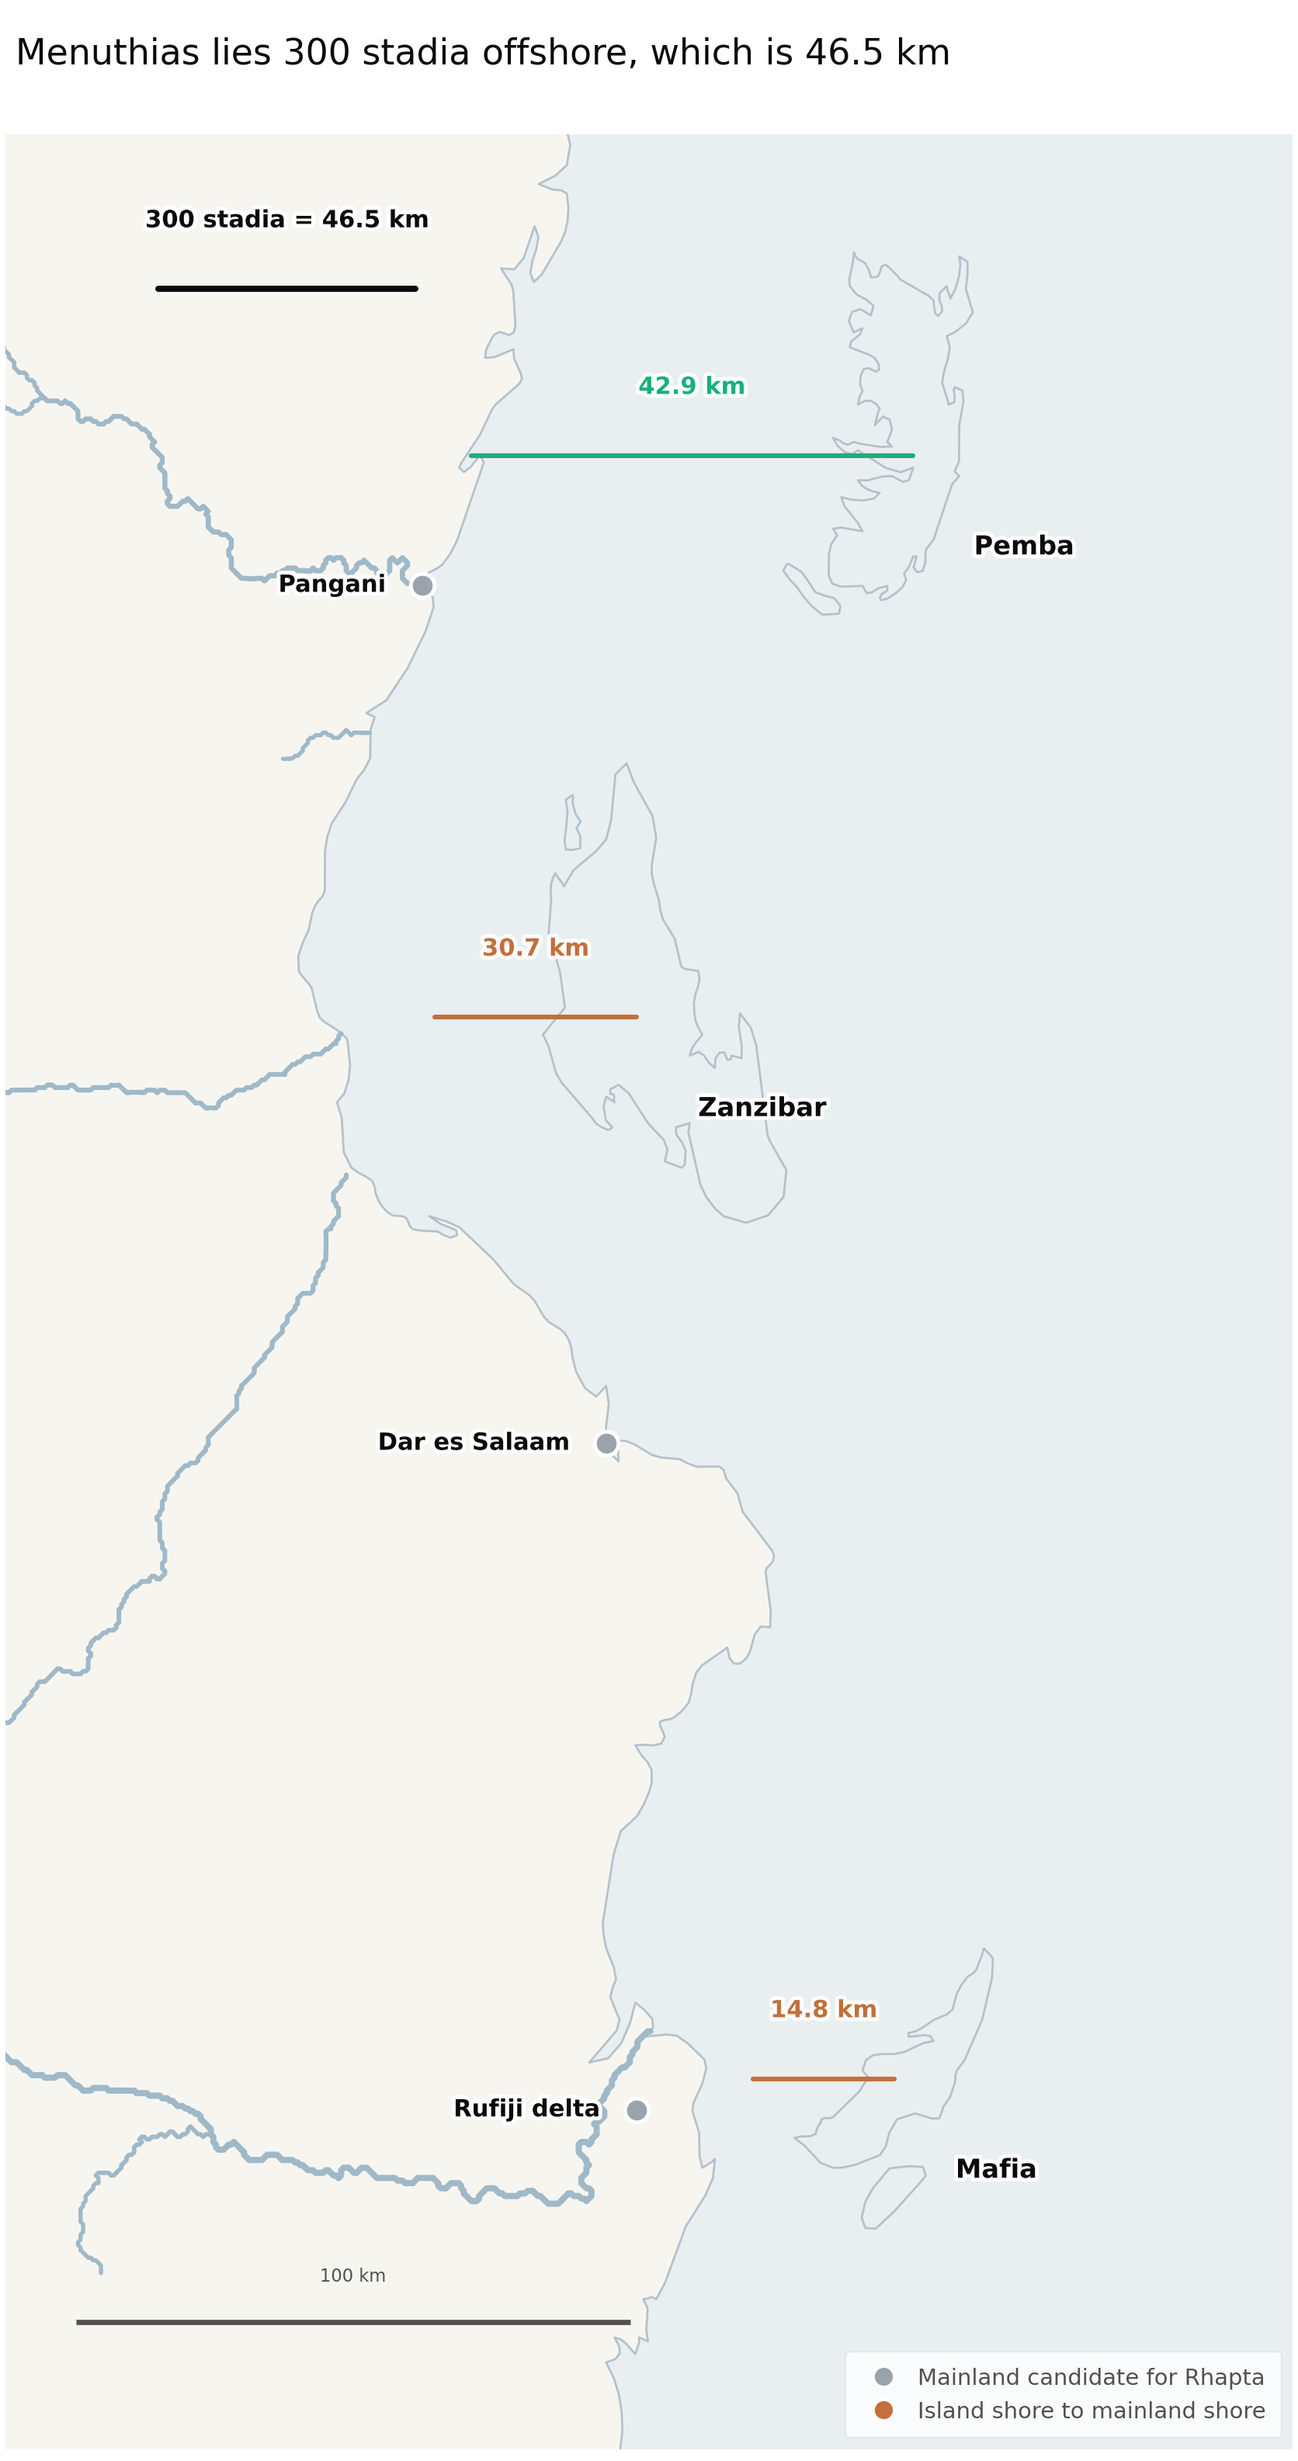
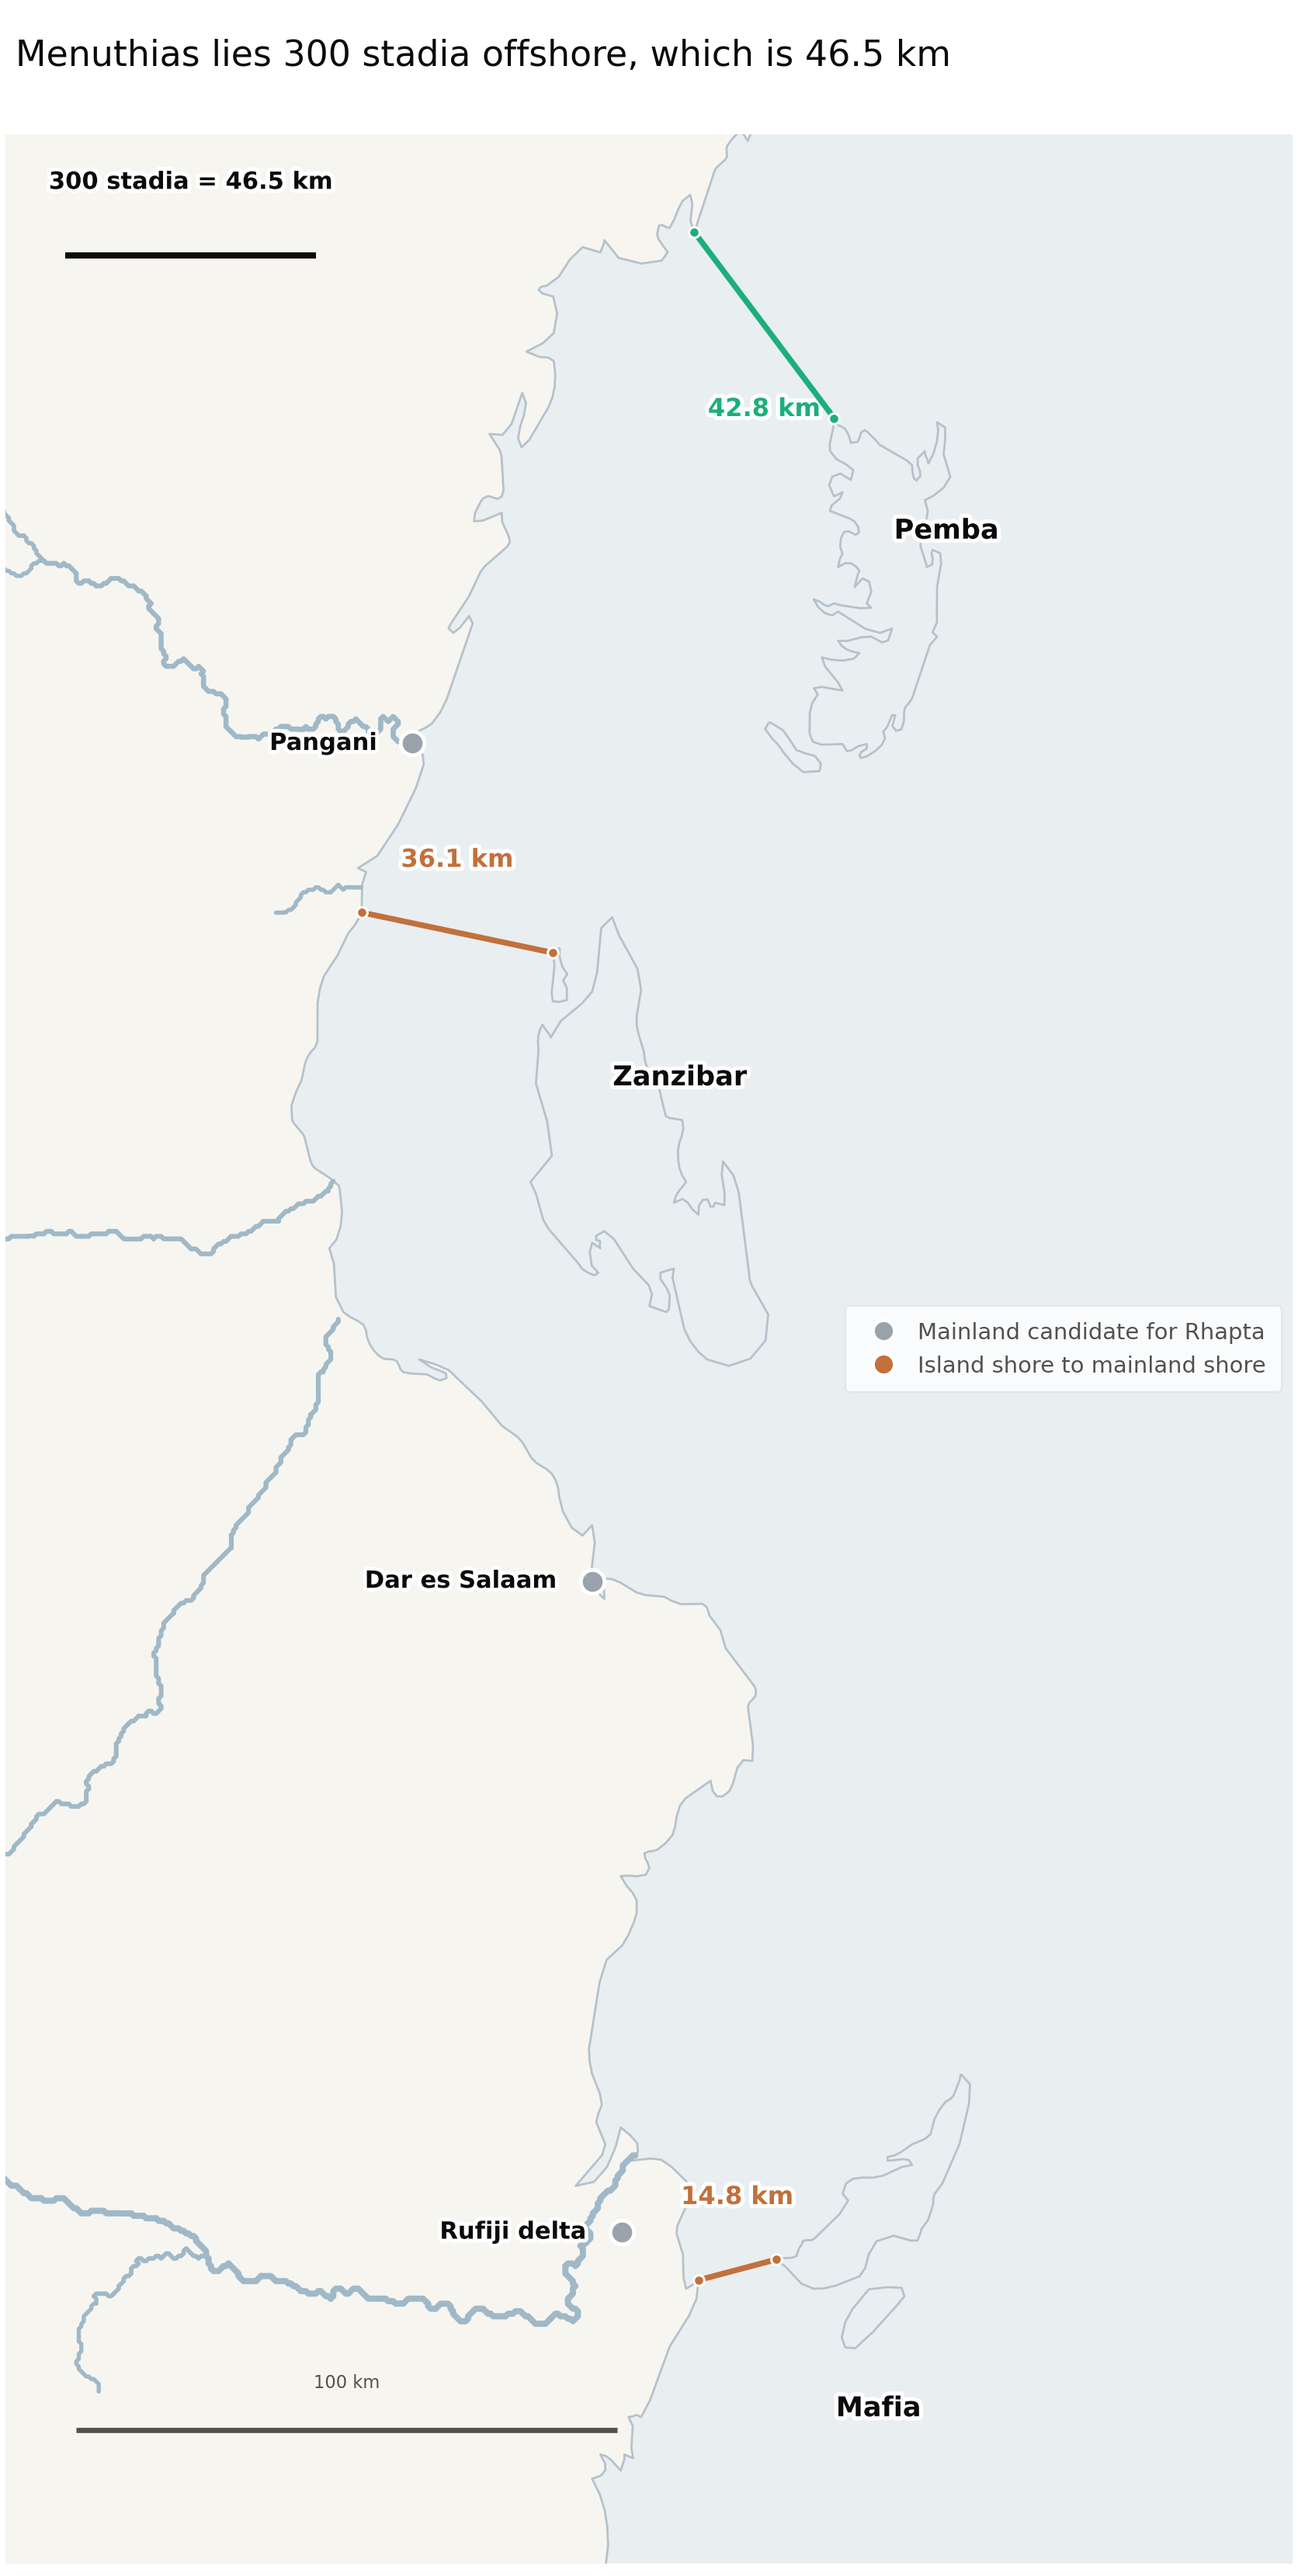
Measure the Menuthias distances from the coastline instead of by eye
The three lines on the Rhapta map were drawn between hand-picked
coordinates and did not meet either shore. They are now the shortest
segment between each island's coastline ring and the mainland ring in
Natural Earth 10m, computed and stored in
data/processed/menuthias_distances.json, with both endpoints marked.

This corrects Zanzibar from 30.7 km to 36.1 km, a figure we had been
quoting in the findings and the Rhapta record. Pemba is 42.8 km and Mafia
14.8 km. Pemba remains the closest to the 46.5 km implied by 300 stadia,
but by a smaller margin than we had claimed.

diff --git a/src/make_slide_maps.py b/src/make_slide_maps.py
@@ -244,39 +244,52 @@ def nelkynda_bakare():
 
 # ------------------------------------------------------------------- Rhapta
 def rhapta():
-    """300 stadia offshore is 46.5 km. Measured island shore to mainland
-    shore, Pemba fits and the usual candidates do not."""
-    bbox = (38.30, 40.40, -8.45, -4.70)
+    """300 stadia offshore is 46.5 km. The three candidate islands are measured
+    shore to shore against the Natural Earth coastline, not by eye, and the
+    endpoints below come from data/processed/menuthias_distances.json."""
+    import json
+    D = json.loads((ROOT / "data/processed/menuthias_distances.json").read_text())
+    bbox = (38.30, 40.45, -8.45, -4.42)
     fig, ax = frame(bbox, 7.6,
                     "Menuthias lies 300 stadia offshore, which is 46.5 km",
                     min_flow=30)
-    ISL = [("Pemba", 39.78, -5.22, 42.9, 39.06, -5.22, FOUND),
-           ("Zanzibar", 39.33, -6.13, 30.7, 39.00, -6.13, TESTED),
-           ("Mafia", 39.75, -7.85, 14.8, 39.52, -7.85, TESTED)]
-    for name, ilon, ilat, km, mlon, mlat, col in ISL:
-        ax.plot([mlon, ilon], [mlat, ilat], color=col, lw=2.0, zorder=6,
-                solid_capstyle="round")
-        ax.text((mlon + ilon) / 2, ilat + 0.10, f"{km} km", fontsize=10,
-                color=col, ha="center", fontweight="bold",
-                path_effects=[pe.withStroke(linewidth=3.2, foreground="white")])
-        ax.text(ilon + 0.10, ilat - 0.16, name, fontsize=11, color=INK,
+    TARGET = 46.5
+    order = ["Pemba", "Zanzibar", "Mafia"]
+    LBL = {"Pemba": (0.10, -0.20), "Zanzibar": (0.10, -0.22), "Mafia": (0.10, -0.26)}
+    for name in order:
+        d = D[name]
+        (ilon, ilat), (mlon, mlat) = d["island"], d["mainland"]
+        near = abs(d["km"] - TARGET) < 6
+        col = FOUND if near else TESTED
+        ax.plot([mlon, ilon], [mlat, ilat], color=col, lw=2.4, zorder=7,
+                solid_capstyle="butt")
+        for x, y in ((mlon, mlat), (ilon, ilat)):
+            ax.plot([x], [y], marker="o", ms=4.5, mfc=col, mec="white", mew=1.0,
+                    zorder=8, ls="none")
+        mx, my = (mlon + ilon) / 2, (mlat + ilat) / 2
+        off = -0.14 if name == "Pemba" else 0.12
+        ax.text(mx, my + off, f"{d['km']:.1f} km", fontsize=10.5, color=col,
+                ha="center", va="center", fontweight="bold",
+                path_effects=[pe.withStroke(linewidth=3.4, foreground="white")])
+        dx, dy = LBL[name]
+        ax.text(ilon + dx, ilat + dy, name, fontsize=11.5, color=INK,
                 fontweight="bold",
-                path_effects=[pe.withStroke(linewidth=3.2, foreground="white")])
+                path_effects=[pe.withStroke(linewidth=3.4, foreground="white")])
+    # the target, drawn to the same scale so the three can be read against it
+    ref_lat, ref_lon = -4.62, 38.40
+    dlon = TARGET / (111.32 * math.cos(math.radians(ref_lat)))
+    ax.plot([ref_lon, ref_lon + dlon], [ref_lat, ref_lat], color=INK, lw=2.6,
+            zorder=7, solid_capstyle="butt")
+    ax.text(ref_lon + dlon / 2, ref_lat + 0.11, "300 stadia = 46.5 km",
+            fontsize=10, color=INK, ha="center", fontweight="bold",
+            path_effects=[pe.withStroke(linewidth=3.4, foreground="white")])
     for k, lbl, dx, ha in [("pangani", "Pangani", -0.06, "right"),
                            ("dar_es_salaam", "Dar es Salaam", -0.06, "right"),
                            ("rufiji", "Rufiji delta", -0.06, "right")]:
         lo, la = xy(k)
         mark(ax, lo, la, lbl, NONE, dx, 0.0, ha, size=10, weight="bold")
-    # the target, drawn to the same scale so the three can be read against it
-    ref_lat, ref_lon = -4.95, 38.55
-    dlon = 46.5 / (111.32 * math.cos(math.radians(ref_lat)))
-    ax.plot([ref_lon, ref_lon + dlon], [ref_lat, ref_lat], color=INK, lw=2.6,
-            zorder=7, solid_capstyle="round")
-    ax.text(ref_lon + dlon / 2, ref_lat + 0.10, "300 stadia = 46.5 km", fontsize=10,
-            color=INK, ha="center", fontweight="bold",
-            path_effects=[pe.withStroke(linewidth=3.4, foreground="white")])
     legend(ax, [("Mainland candidate for Rhapta", NONE),
-                ("Island shore to mainland shore", TESTED)], loc="lower right")
+                ("Island shore to mainland shore", TESTED)], loc="center right")
     bm.scalebar(ax, bbox)
     fig.savefig(OUT / "14_rhapta.png", dpi=220, facecolor="white")
     print("wrote 14_rhapta.png")

diff --git a/src/build_city_record.py b/src/build_city_record.py
@@ -223,7 +223,7 @@ Datoo's bracket from Pangani to the Rufiji but disputes the point within it.
 
 The Periplus places Rhapta two days' sail beyond Menuthias, an island 300 stadia
 offshore. At a 155 m stadion that is 46.5 km, and measured from island shore to
-mainland shore Pemba fits at 42.9 km against Zanzibar at 30.7 and Mafia at 14.8.
+mainland shore Pemba fits at 42.8 km against Zanzibar at 36.1 and Mafia at 14.8.
 If Menuthias is Pemba, two days south lands near Pangani or a little below it,
 favouring the northern end of the bracket.
 

diff --git a/docs/FINDINGS.md b/docs/FINDINGS.md
@@ -683,8 +683,8 @@ Chittick and later Chami for the Rufiji delta, with Chami additionally reporting
 submerged structures off Mafia Island. Hughes 2016 attempted a GIS approach.
 
 The Periplus places Menuthias 300 stadia off the mainland, about 46.5 km at 155 m.
-Measured island shore to mainland shore, **that favours Pemba at 42.9 km**
-against a target of 46.5, not Zanzibar at 30.7 or Mafia at 14.8. (An earlier
+Measured island shore to mainland shore, **that favours Pemba at 42.8 km**
+against a target of 46.5, not Zanzibar at 36.1 or Mafia at 14.8. (An earlier
 version of this analysis claimed Zanzibar; that was wrong and is corrected here.)
 
 The one claim of Periplus-period material is Chami's report of Roman glass beads

diff --git a/docs/cities/rhapta.md b/docs/cities/rhapta.md
@@ -12,7 +12,7 @@ Datoo's bracket from Pangani to the Rufiji but disputes the point within it.
 
 The Periplus places Rhapta two days' sail beyond Menuthias, an island 300 stadia
 offshore. At a 155 m stadion that is 46.5 km, and measured from island shore to
-mainland shore Pemba fits at 42.9 km against Zanzibar at 30.7 and Mafia at 14.8.
+mainland shore Pemba fits at 42.8 km against Zanzibar at 36.1 and Mafia at 14.8.
 If Menuthias is Pemba, two days south lands near Pangani or a little below it,
 favouring the northern end of the bracket.
 
